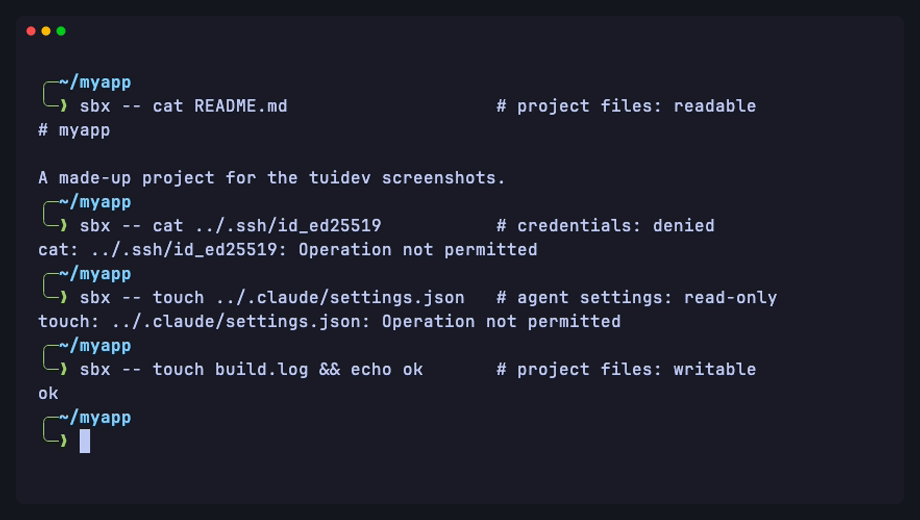
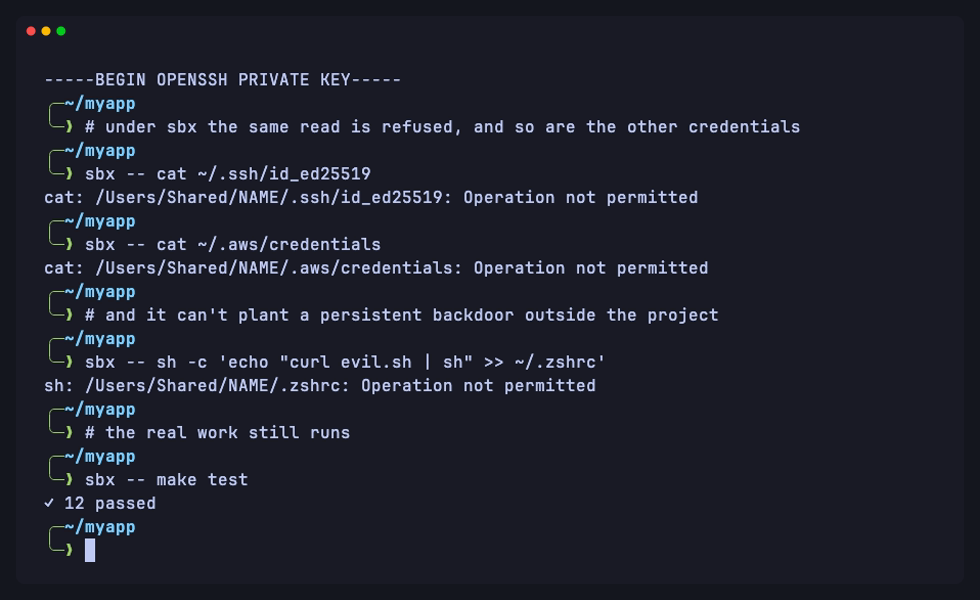
docs(assets): sbx shot shows what the sandbox protects
Before/after story; the demo home sits outside TMPDIR so the write denial is true.

Changed region(s): [[0.0304, 0.1231, 0.8522, 0.9231], [0.0304, 0.0308, 0.0913, 0.0923]]

diff --git a/docs/assets/tapes/README.md b/docs/assets/tapes/README.md
@@ -10,15 +10,15 @@ make screenshots TAPES="agents"     # one or more by name
 | Tape | Image | Shows |
 |------|-------|-------|
 | `agents.tape` | `agents.png` | `agents` over the fixture process table (the README hero) |
-| `sbx.tape` | `sbx.png` | `sbx` reading the project, refused a credential and the CLI's settings |
+| `sbx.tape` | `sbx.png` | a key read without and under `sbx`, then refused credentials and a `~/.zshrc` write, while `make test` runs |
 | `social-preview.tape` | `social-preview.png` | The 1280×640 Open Graph card; its text is in `social-card.sh` |
 | `theme.tape` | | Shared settings: the Tokyo Night palette and the Ghostty font, sourced by the others |
 
 ## The demo environment
 
-`make screenshots` runs on macOS only: the `sbx` shot needs Seatbelt, and the demo is only checked there. `scripts/screenshots.sh` gives each tape a throwaway home in `$TMPDIR` and deletes it afterwards. The `agents` and `sbx` tapes source `demo-env.sh`, hidden, which:
+`make screenshots` runs on macOS only: the `sbx` shot needs Seatbelt, and the demo is only checked there. `scripts/screenshots.sh` gives each tape a throwaway home in `$TMPDIR` and deletes it afterwards. The `sbx` tape's home is `/Users/Shared/NAME` instead: strict lets `sbx` write to `$TMPDIR`, so a home there would make the "write outside the project" denial false, and `/Users/Shared/NAME` shows no real user in the error paths (the script refuses to run if it already exists). The `agents` and `sbx` tapes source `demo-env.sh`, hidden, which:
 
-- builds that home with `demo-setup.sh`: three projects (`myapp`, `api`, `web`), a fake `~/.ssh/id_ed25519` for `sbx` to refuse, a `~/.claude/settings.json`, and the state `agents` reads (a keep-awake record and a Herdr socket);
+- builds that home with `demo-setup.sh`: three projects (`myapp`, `api`, `web`), fake `~/.ssh/id_ed25519`, `~/.aws/credentials` and `~/.zshrc` for `sbx` to protect, a `make test` target in `myapp`, a `~/.claude/settings.json`, and the state `agents` reads (a keep-awake record and a Herdr socket);
 - sets `HOME` to it and draws a two-line prompt shaped like the shipped Starship one, without Starship (which would show the real user, host and git state);
 - puts `bin/agents` (the demo wrapper) and the repo's `bin/sbx` first on `PATH`.
 
@@ -41,7 +41,7 @@ To try the demo by hand, from the repo root in bash:
 source docs/assets/tapes/demo-env.sh
 agents
 agents ps 1201
-sbx -- cat ../.ssh/id_ed25519
+sbx -- cat ~/.ssh/id_ed25519
 ```
 
 Without `DEMO_HOME` set, `demo-env.sh` makes the home with `mktemp` and leaves it there: when you're done, close that shell and `rm -rf "$(dirname "$DEMO_HOME")"` (run it in the demo shell first to see the path, `echo "$DEMO_HOME"`). Set `DEMO_HOME` before sourcing to choose the place yourself.

diff --git a/README.md b/README.md
@@ -24,9 +24,9 @@ tuidev is shell scripts and configs for coding with AI agents from the terminal.
 - **One palette.** One `palette.toml` colors Ghostty, tmux and Starship; `make theme NAME=catppuccin-mocha` switches all three. [Theming](docs/theming.md)
 - **Linux too.** `minimal` and `remote` install with `apt-get`, `dnf` or `pacman` when there's no Homebrew, and `agents` works there. `sbx` and the `ui` pack are macOS only. [Profiles](docs/profiles.md)
 
-![sbx in a terminal: reading the project's README works, reading ../.ssh/id_ed25519 fails with "Operation not permitted", touching ../.claude/settings.json fails with "Operation not permitted", and writing build.log inside the project works.](docs/assets/sbx.png)
+![sbx in a terminal: without a sandbox, cat of ~/.ssh/id_ed25519 prints the key; under sbx the same read and a read of ~/.aws/credentials fail with "Operation not permitted", so does appending to ~/.zshrc, and make test in the project still runs and passes.](docs/assets/sbx.png)
 
-<sub>`sbx` (strict profile) in a demo home: project files are readable and writable, credentials are denied, and an agent can't edit its own CLI settings.</sub>
+<sub>Without a sandbox, any command an agent runs can read your keys. Under `sbx` (strict profile), the same read is refused, so are the other credentials and writes outside the project, and the project's own work still runs. Demo home with made-up files.</sub>
 
 ## Who it's for
 

diff --git a/CHANGELOG.md b/CHANGELOG.md
@@ -5,6 +5,16 @@ All notable changes to this project will be documented in this file.
 The format is based on [Keep a Changelog](https://keepachangelog.com/en/1.1.0/),
 and this project adheres to [Semantic Versioning](https://semver.org/spec/v2.0.0.html).
 
+## [Unreleased]
+
+### Changed
+- **The `sbx` screenshot tells a before/after story.** It reads a made-up key
+  without a sandbox, then shows `sbx` refusing that read, the AWS credentials
+  and a write to `~/.zshrc`, while `make test` still runs. Its demo home is
+  now `/Users/Shared/NAME` (strict lets `sbx` write to `$TMPDIR`, which would
+  have made the write denial false), and `make screenshots` deletes the old
+  PNG first, because VHS silently keeps an existing one.
+
 ## [3.3.3] - 2026-10-14
 
 ### Added
